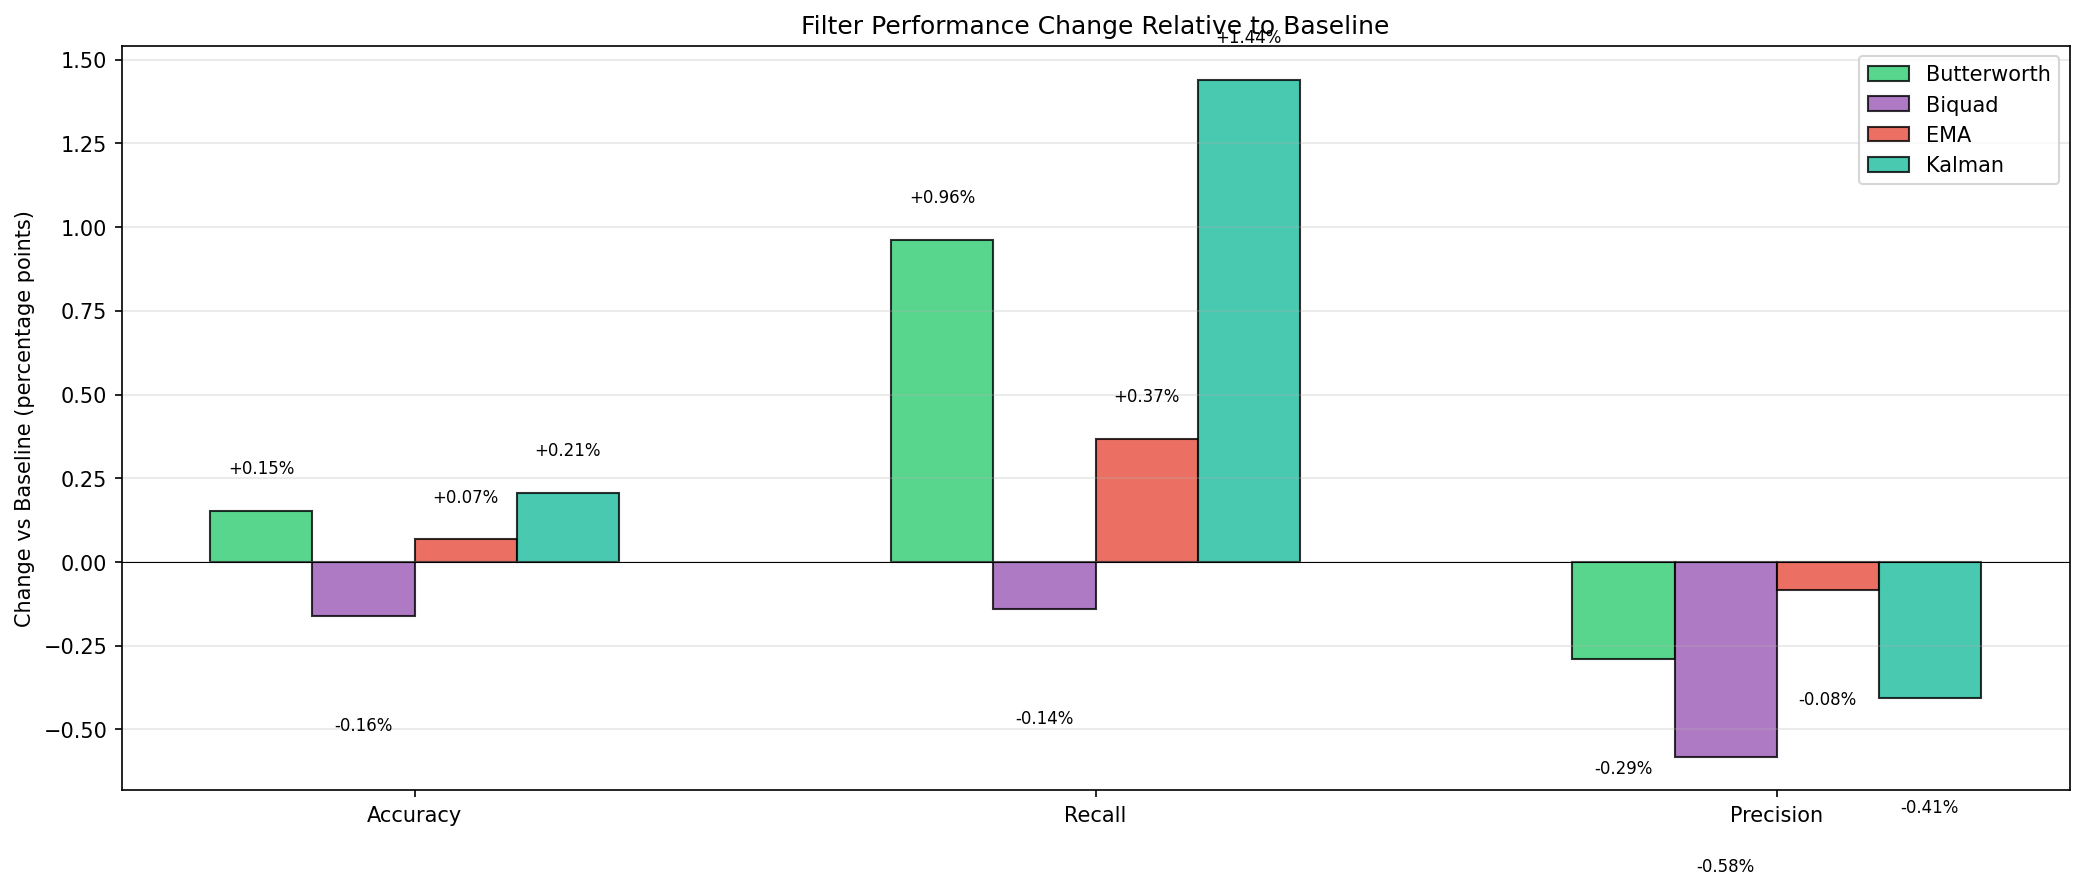
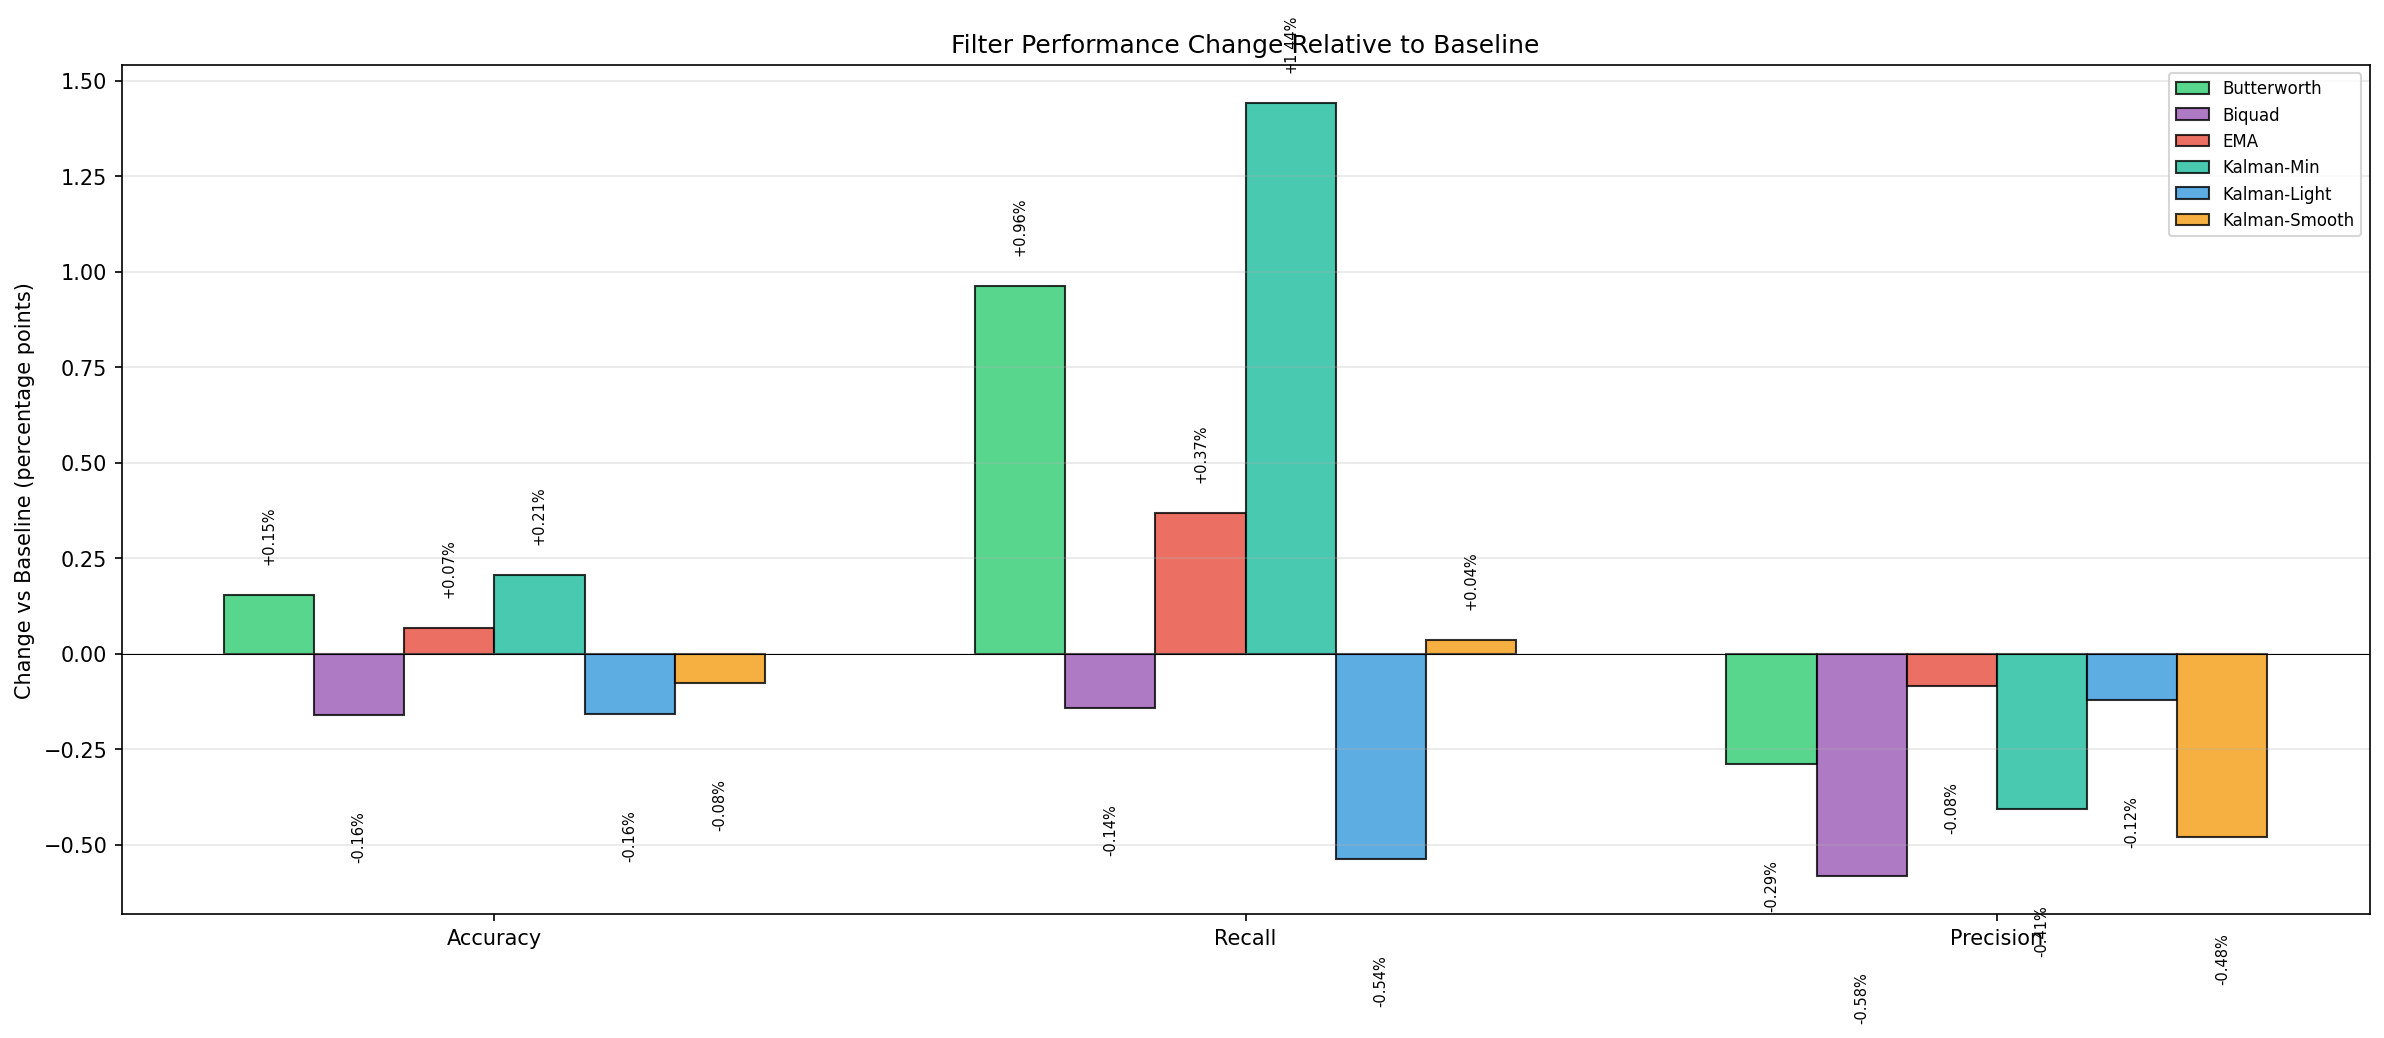
compared new results with the other ones

diff --git a/analyze_filter_results.py b/analyze_filter_results.py
@@ -1,10 +1,10 @@
 #!/usr/bin/env python3
 """
 Filter Comparison Analysis Script
-Compares Baseline vs Butterworth vs Biquad vs EMA vs Kalman filters
+Compares Baseline vs Butterworth vs Biquad vs EMA vs Kalman (3 variants)
 Analyzes: Accuracy, Recall, Precision, FP Rate, FN Rate
 
-Run locally: python analyze_filter_results_with_kalman.py
+Run locally: python analyze_filter_results_all_kalman.py
 """
 
 import pandas as pd
@@ -16,7 +16,7 @@ import os
 # Configuration - Update this path to your outputs directory
 OUTPUTS_DIR = Path('outputs')
 
-# Filter configurations to analyze (now includes Kalman)
+# Filter configurations to analyze (includes all 3 Kalman variants)
 FILTER_CONFIGS = {
     'baseline': {
         'name': 'Baseline (No Filter)',
@@ -46,7 +46,19 @@ FILTER_CONFIGS = {
         'name': 'Kalman (Q=0.0001, R=0.0001)',
         'pattern': 'filter_loo_kalman_s{:02d}_kalman',
         'color': '#1abc9c',  # Teal
-        'short': 'Kalman'
+        'short': 'Kalman-Min'
+    },
+    'kalman_light': {
+        'name': 'Kalman Light (Q=0.1, R=0.1)',
+        'pattern': 'filter_loo_kalman_light_s{:02d}_light',
+        'color': '#3498db',  # Blue
+        'short': 'Kalman-Light'
+    },
+    'kalman_smooth': {
+        'name': 'Kalman Smooth (Q=0.001, R=0.1)',
+        'pattern': 'filter_loo_kalman_s{:02d}_mooth',  # Note: folder has "mooth" typo
+        'color': '#f39c12',  # Orange
+        'short': 'Kalman-Smooth'
     }
 }
 
@@ -175,7 +187,7 @@ def compare_to_baseline(df):
 
 def create_bar_chart_comparison(df):
     """Create bar chart comparing all filters."""
-    fig, axes = plt.subplots(1, 3, figsize=(16, 5))
+    fig, axes = plt.subplots(1, 3, figsize=(18, 6))
     
     metrics = ['accuracy', 'recall', 'precision']
     titles = ['Accuracy', 'Recall', 'Precision']
@@ -199,20 +211,20 @@ def create_bar_chart_comparison(df):
             continue
             
         x = np.arange(len(labels))
-        bars = ax.bar(x, means, yerr=stds, capsize=5, color=colors, edgecolor='black', alpha=0.8)
+        bars = ax.bar(x, means, yerr=stds, capsize=4, color=colors, edgecolor='black', alpha=0.8)
         
         ax.set_ylabel(title)
         ax.set_title(f'{title} by Filter Type')
         ax.set_xticks(x)
-        ax.set_xticklabels(labels, rotation=20, ha='right')
+        ax.set_xticklabels(labels, rotation=35, ha='right', fontsize=9)
         ax.set_ylim(0.7, 1.0)
         if len(means) > 0:
             ax.axhline(y=means[0], color='gray', linestyle='--', alpha=0.5, label='Baseline')
         
         # Add value labels on bars
         for bar, mean in zip(bars, means):
-            ax.text(bar.get_x() + bar.get_width()/2, bar.get_height() + 0.01, 
-                   f'{mean:.3f}', ha='center', va='bottom', fontsize=9)
+            ax.text(bar.get_x() + bar.get_width()/2, bar.get_height() + 0.008, 
+                   f'{mean:.3f}', ha='center', va='bottom', fontsize=8)
     
     plt.tight_layout()
     plt.savefig('filter_comparison_metrics.png', dpi=150, bbox_inches='tight')
@@ -222,7 +234,7 @@ def create_bar_chart_comparison(df):
 
 def create_fp_fn_comparison(df):
     """Create FP/FN rate comparison chart."""
-    fig, axes = plt.subplots(1, 2, figsize=(14, 5))
+    fig, axes = plt.subplots(1, 2, figsize=(16, 6))
     
     metrics = ['fn_rate', 'fp_rate']
     titles = ['False Negative Rate (1 - Recall)', 'False Positive Rate (1 - Precision)']
@@ -246,12 +258,12 @@ def create_fp_fn_comparison(df):
             continue
             
         x = np.arange(len(labels))
-        bars = ax.bar(x, means, yerr=stds, capsize=5, color=colors, edgecolor='black', alpha=0.8)
+        bars = ax.bar(x, means, yerr=stds, capsize=4, color=colors, edgecolor='black', alpha=0.8)
         
         ax.set_ylabel('Rate')
         ax.set_title(title)
         ax.set_xticks(x)
-        ax.set_xticklabels(labels, rotation=20, ha='right')
+        ax.set_xticklabels(labels, rotation=35, ha='right', fontsize=9)
         ax.set_ylim(0, 0.3)
         if len(means) > 0:
             ax.axhline(y=means[0], color='gray', linestyle='--', alpha=0.5, label='Baseline')
@@ -259,7 +271,7 @@ def create_fp_fn_comparison(df):
         # Add value labels
         for bar, mean in zip(bars, means):
             ax.text(bar.get_x() + bar.get_width()/2, bar.get_height() + 0.005, 
-                   f'{mean:.3f}', ha='center', va='bottom', fontsize=9)
+                   f'{mean:.3f}', ha='center', va='bottom', fontsize=8)
     
     plt.tight_layout()
     plt.savefig('filter_comparison_fp_fn.png', dpi=150, bbox_inches='tight')
@@ -269,7 +281,7 @@ def create_fp_fn_comparison(df):
 
 def create_subject_breakdown(df):
     """Create per-subject breakdown chart."""
-    fig, axes = plt.subplots(2, 2, figsize=(16, 10))
+    fig, axes = plt.subplots(2, 2, figsize=(18, 12))
     axes = axes.flatten()
     
     metrics = ['accuracy', 'recall', 'precision', 'fn_rate']
@@ -278,7 +290,7 @@ def create_subject_breakdown(df):
     
     # Count how many filters have data
     filters_with_data = [fk for fk in FILTER_CONFIGS.keys() if len(df[df['filter_key'] == fk]) > 0]
-    width = 0.15 if len(filters_with_data) == 5 else 0.2
+    width = 0.11 if len(filters_with_data) >= 7 else 0.13
     
     for ax, metric, title in zip(axes, metrics, titles):
         x = np.arange(len(TEST_SUBJECTS))
@@ -305,7 +317,7 @@ def create_subject_breakdown(df):
         ax.set_title(title)
         ax.set_xticks(x)
         ax.set_xticklabels([f'Subject {s}' for s in TEST_SUBJECTS])
-        ax.legend(loc='lower right', fontsize=8)
+        ax.legend(loc='lower right', fontsize=7)
         
         if metric == 'fn_rate':
             ax.set_ylim(0, 0.35)
@@ -324,13 +336,13 @@ def create_delta_chart(comparisons_df, baseline_avg):
         print("No comparison data available for delta chart")
         return
         
-    fig, ax = plt.subplots(figsize=(14, 6))
+    fig, ax = plt.subplots(figsize=(16, 7))
     
     metrics = ['delta_accuracy', 'delta_recall', 'delta_precision']
     labels = ['Accuracy', 'Recall', 'Precision']
     
     x = np.arange(len(labels))
-    width = 0.15 if len(comparisons_df) >= 4 else 0.2
+    width = 0.12 if len(comparisons_df) >= 6 else 0.15
     
     for i, (_, row) in enumerate(comparisons_df.iterrows()):
         values = [row[m] * 100 for m in metrics]  # Convert to percentage points
@@ -344,21 +356,73 @@ def create_delta_chart(comparisons_df, baseline_avg):
         for bar, val in zip(bars, values):
             y_pos = bar.get_height()
             ax.text(bar.get_x() + bar.get_width()/2, 
-                   y_pos + (0.1 if y_pos >= 0 else -0.3),
+                   y_pos + (0.08 if y_pos >= 0 else -0.25),
                    f'{val:+.2f}%', ha='center', va='bottom' if y_pos >= 0 else 'top',
-                   fontsize=8)
+                   fontsize=7, rotation=90)
     
     ax.axhline(y=0, color='black', linestyle='-', linewidth=0.5)
     ax.set_ylabel('Change vs Baseline (percentage points)')
     ax.set_title('Filter Performance Change Relative to Baseline')
     ax.set_xticks(x)
     ax.set_xticklabels(labels)
-    ax.legend(loc='best')
+    ax.legend(loc='best', fontsize=8)
     ax.grid(axis='y', alpha=0.3)
     
     plt.tight_layout()
     plt.savefig('filter_comparison_delta.png', dpi=150, bbox_inches='tight')
     print("Saved: filter_comparison_delta.png")
+    plt.close()
+
+
+def create_kalman_comparison_chart(df):
+    """Create a special comparison chart for Kalman variants only."""
+    kalman_filters = ['kalman', 'kalman_light', 'kalman_smooth']
+    kalman_df = df[df['filter_key'].isin(kalman_filters)]
+    
+    if len(kalman_df) == 0:
+        print("No Kalman results for comparison chart")
+        return
+    
+    fig, axes = plt.subplots(1, 3, figsize=(15, 5))
+    
+    metrics = ['accuracy', 'recall', 'precision']
+    titles = ['Accuracy', 'Recall', 'Precision']
+    
+    for ax, metric, title in zip(axes, metrics, titles):
+        means = []
+        stds = []
+        colors = []
+        labels = []
+        
+        for fk in kalman_filters:
+            filter_df = df[df['filter_key'] == fk]
+            if len(filter_df) > 0:
+                means.append(filter_df[metric].mean())
+                stds.append(filter_df[metric].std())
+                colors.append(FILTER_CONFIGS[fk]['color'])
+                labels.append(FILTER_CONFIGS[fk]['short'])
+        
+        if len(means) == 0:
+            continue
+        
+        x = np.arange(len(labels))
+        bars = ax.bar(x, means, yerr=stds, capsize=5, color=colors, edgecolor='black', alpha=0.8)
+        
+        ax.set_ylabel(title)
+        ax.set_title(f'Kalman Variants - {title}')
+        ax.set_xticks(x)
+        ax.set_xticklabels(labels, rotation=15, ha='right')
+        ax.set_ylim(0.85, 1.0)
+        
+        # Add value labels
+        for bar, mean in zip(bars, means):
+            ax.text(bar.get_x() + bar.get_width()/2, bar.get_height() + 0.005, 
+                   f'{mean:.4f}', ha='center', va='bottom', fontsize=10)
+    
+    plt.suptitle('Kalman Filter Parameter Comparison\n(Q/R ratio affects smoothing strength)', fontsize=12)
+    plt.tight_layout()
+    plt.savefig('kalman_variants_comparison.png', dpi=150, bbox_inches='tight')
+    print("Saved: kalman_variants_comparison.png")
     plt.close()
 
 
@@ -457,14 +521,28 @@ def print_conclusions(comparisons_df, baseline_avg):
         symbol = "✓" if row['delta_accuracy'] > 0 else "✗"
         print(f"  {i}. {row['filter']}: {row['delta_accuracy']*100:+.2f}% {symbol}")
     
+    # Kalman-specific analysis
+    print(f"\n🔬 KALMAN FILTER ANALYSIS:")
+    kalman_rows = comparisons_df[comparisons_df['filter_key'].str.contains('kalman')]
+    if len(kalman_rows) > 0:
+        best_kalman = kalman_rows.loc[kalman_rows['delta_accuracy'].idxmax()]
+        print(f"  Best Kalman variant: {best_kalman['filter']}")
+        print(f"    Accuracy: {best_kalman['accuracy']:.4f} (Δ {best_kalman['delta_accuracy']:+.4f})")
+        print(f"    Recall:   {best_kalman['recall']:.4f} (Δ {best_kalman['delta_recall']:+.4f})")
+        
+        print(f"\n  Kalman Q/R ratio insight:")
+        print(f"    - Q=R (equal): Model and measurements equally trusted")
+        print(f"    - Q<R: Trust model more → heavier smoothing")
+        print(f"    - Smaller values = lighter filtering (near passthrough)")
+    
     print("\n" + "="*70)
 
 
 def main():
     """Main analysis function."""
     print("\n" + "="*70)
-    print("FILTER COMPARISON ANALYSIS (WITH KALMAN)")
-    print("Comparing: Baseline vs Butterworth vs Biquad vs EMA vs Kalman")
+    print("FILTER COMPARISON ANALYSIS (ALL KALMAN VARIANTS)")
+    print("Comparing: Baseline, Butterworth, Biquad, EMA, and 3 Kalman configs")
     print("Test Subjects: ", TEST_SUBJECTS)
     print("="*70)
     
@@ -496,6 +574,7 @@ def main():
     create_fp_fn_comparison(df)
     create_subject_breakdown(df)
     create_delta_chart(comparisons_df, baseline_avg)
+    create_kalman_comparison_chart(df)
     
     create_summary_table(df, comparisons_df, baseline_avg)
     print_conclusions(comparisons_df, baseline_avg)
@@ -508,6 +587,7 @@ def main():
     print("  • filter_comparison_fp_fn.png")
     print("  • filter_comparison_by_subject.png")
     print("  • filter_comparison_delta.png")
+    print("  • kalman_variants_comparison.png")
 
 
 if __name__ == '__main__':
